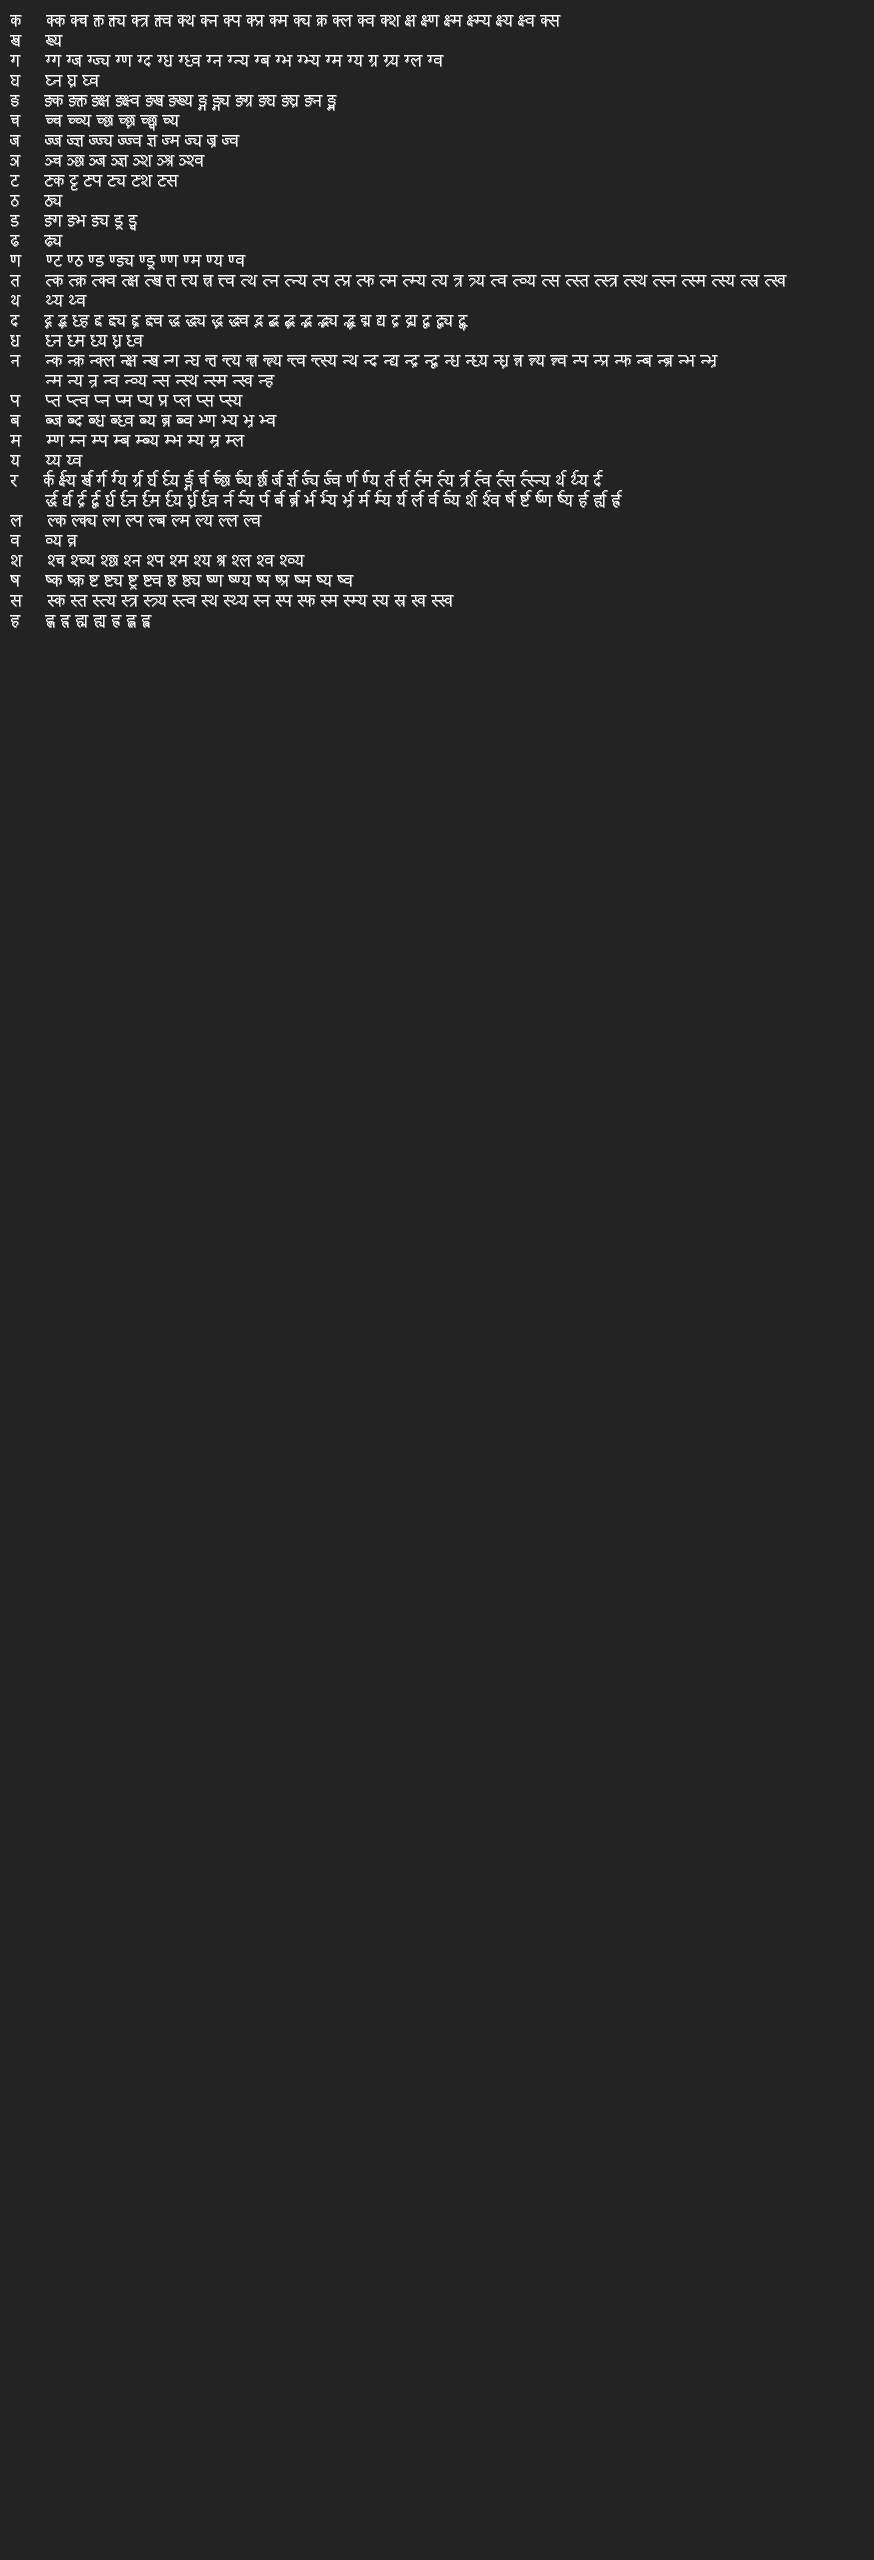
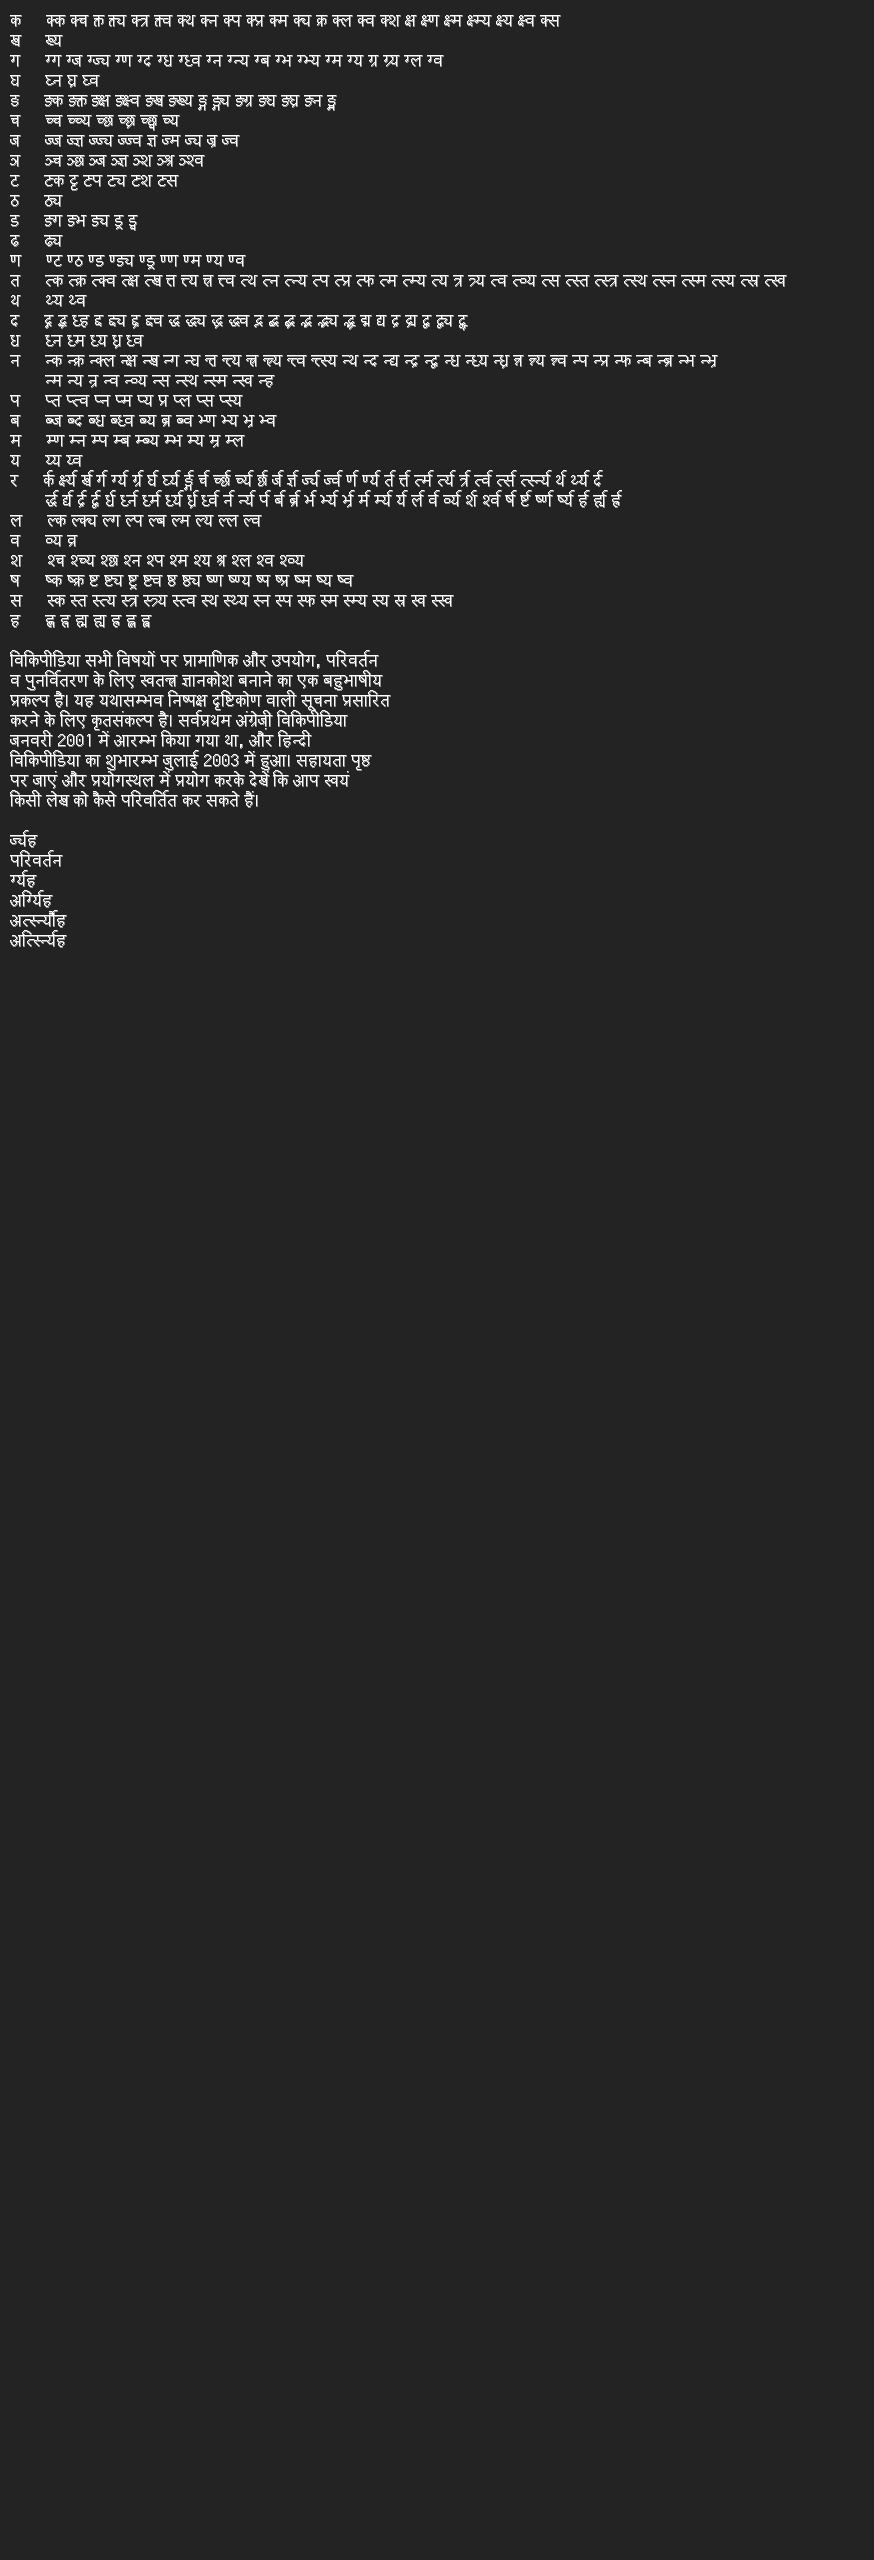
fixed a bad RAsup positioning (hopefully)

Changed region(s): [[0.0, 0.25, 0.4325, 0.375]]

diff --git a/src/net/torvald/terrarumsansbitmap/gdx/TerrarumSansBitmap.kt b/src/net/torvald/terrarumsansbitmap/gdx/TerrarumSansBitmap.kt
@@ -30,6 +30,7 @@ import com.badlogic.gdx.graphics.Pixmap
 import com.badlogic.gdx.graphics.Texture
 import com.badlogic.gdx.graphics.g2d.*
 import com.badlogic.gdx.utils.GdxRuntimeException
+import com.ibm.icu.impl.Normalizer2Impl.Hangul.isHangul
 import net.torvald.terrarumsansbitmap.DiacriticsAnchor
 import net.torvald.terrarumsansbitmap.GlyphProps
 import net.torvald.terrarumsansbitmap.gdx.TerrarumSansBitmap.Companion.charInfo
@@ -1312,7 +1313,7 @@ class TerrarumSansBitmap(
 
         // reposition devanagari RA-initials into RAsup
         i = 0
-//        dbgprn("seq3 = ${seq3.map { "${it.toCh()}${ZWNJ.toChar()}" }.joinToString(" ")}")
+        dbgprnLig("seq3 = ${seq3.map { "${it.toCh()}${ZWNJ.toChar()}" }.joinToString(" ")}")
 
         val yankedCharacters  = Stack<Pair<Int, CodePoint>>() // Stack of <Position, CodePoint>; codepoint use -1 if not applicable
         var yankedDevanagariRaStatus = intArrayOf(0,0) // 0: none, 1: consonants, 2: virama, 3: vowel for this syllable
@@ -1340,44 +1341,54 @@ class TerrarumSansBitmap(
             val c = seq3[i]
             val cNext = seq3.getOrElse(i+1) { -1 }
             val cNext2 = seq3.getOrElse(i+2) { -1 }
-//            val cNext3 = seq3.getOrElse(i+3) { -1 }
 
-//            dbgprn("  र${yankedDevanagariRaStatus[1]} Chars: ${cPrev2.toCh()}${ZWNJ.toChar()} ${cPrev.toCh()}${ZWNJ.toChar()} [ ${c.toCh()}${ZWNJ.toChar()} ] ${cNext.toCh()}${ZWNJ.toChar()} ${cNext2.toCh()}${ZWNJ.toChar()}")
+            dbgprnLig("  र${yankedDevanagariRaStatus[1]} Chars: ${cPrev2.toCh()}${ZWNJ.toChar()} ${cPrev.toCh()}${ZWNJ.toChar()} [ ${c.toCh()}${ZWNJ.toChar()} ] ${cNext.toCh()}${ZWNJ.toChar()} ${cNext2.toCh()}${ZWNJ.toChar()}")
 
 
             // in Regex: RA vir VL* (C vir C (vir C)*)? VR* ᴿ [not V && not vir]
+            // TERMINATOR: right vowel | non-half consonant before any consonants
             if (yankedDevanagariRaStatus[1] == 0 && c == DEVANAGARI_RA && cNext == DEVANAGARI_VIRAMA) {
-//                dbgprn("   Yanking RA (0 -> 1)")
+                dbgprnLig("   Yanking RA (0 -> 1)")
                 yankedCharacters.push(i to c)
                 changeRaStatus(1)
             }
             else if (yankedDevanagariRaStatus[1] == 1 && yankedDevanagariRaStatus[0] == 0 && c == DEVANAGARI_VIRAMA) {
-//                dbgprn("   First Virama (1 -> 2)")
+                dbgprnLig("   First Virama (1 -> 2)")
                 changeRaStatus(2)
             }
             else if (yankedDevanagariRaStatus[1] == 2 && devanagariConsonants.contains(c)) {
-//                dbgprn("   Consonants after Virama (2 -> 1)")
+                dbgprnLig("   Consonants after Virama (2 -> 1)")
                 seq4.add(c)
                 changeRaStatus(1)
             }
-            else if (yankedDevanagariRaStatus[1] == 3 && devanagariConsonants.contains(c)) {
-//                dbgprn("   Consonants after Left Vowel (3 -> 1)")
+            else if (yankedDevanagariRaStatus[1] in listOf(1,3) && devanariConsonantsHalfs.contains(c)) {
+                dbgprnLig("   Consonants Half Form (${yankedDevanagariRaStatus[1]} -> 3)")
+                seq4.add(c)
+                changeRaStatus(3)
+            }
+            else if (yankedDevanagariRaStatus[1] == 5 && devanagariConsonants.contains(c)) {
+                dbgprnLig("   Consonants after Left Vowel (5 -> 1)")
                 seq4.add(c)
                 changeRaStatus(1)
             }
             else if ((yankedDevanagariRaStatus[1] > 0) && devanagariRightVowels.contains(c)) {
-//                dbgprn("   Right Vowels (${yankedDevanagariRaStatus[1]} -> 4)")
+                dbgprnLig("   Right Vowels (${yankedDevanagariRaStatus[1]} -> 4)")
                 seq4.add(c)
                 changeRaStatus(4)
             }
             else if ((yankedDevanagariRaStatus[1] in 1..3) && devanagariVowels.contains(c)) {
-//                dbgprn("   Left Vowels (${yankedDevanagariRaStatus[1]} -> 3)")
+                dbgprnLig("   Left Vowels (${yankedDevanagariRaStatus[1]} -> 5)")
                 seq4.add(c)
-                changeRaStatus(3)
+                changeRaStatus(5)
+            }
+            else if (yankedDevanagariRaStatus[1] > 0 && devanariConsonantsHalfs.contains(cPrev) && devanagariConsonants.contains(c)) {
+                dbgprnLig("   Consonant Tail after Halfs (${yankedDevanagariRaStatus[1]} -> 9)")
+                seq4.add(c)
+                changeRaStatus(9)
             }
             // -- termination or illegal state for Devanagari RA
             else if (yankedDevanagariRaStatus[1] > 0) {
-//                dbgprn("   Popping out RAsup")
+                dbgprnLig("   Popping out RAsup")
                 yankedCharacters.pop()
                 seq4.add(DEVANAGARI_RA_SUPER)
                 resetRaStatus()
@@ -1399,7 +1410,9 @@ class TerrarumSansBitmap(
         return seq4
     }
 
-    private fun CodePoint.toCh() = if (this in 0xF0100..0xF02FF) this.puaToUni() else if (this < 65536) "${this.toChar()}" else this.toHex()
+    private fun dbgprnLig(i: Any) { if (false) println("[${this.javaClass.simpleName}] $i") }
+
+    private fun CodePoint.toCh() = if (this >= 0xF0000) this.puaToUni() else if (this < 65536) "${this.toChar()}" else this.toHex()
 
     // nuke this function when the time that compiled bytecode exceeds 64 kb finally arrives
     private fun CodePoint.puaToUni() = when (this) {
@@ -1411,6 +1424,9 @@ class TerrarumSansBitmap(
         0xF0105 -> "हू"
         0xF010B -> "˓"
         in 0xF0140..0xF0164 -> "${(this - 0xf0140 + 0x915).toChar()}"
+        in 0xF0230..0xF0254 -> "${(this - 0xf0230 + 0x915).toChar()}${DEVANAGARI_VIRAMA.toChar()}${ZWJ.toChar()}"
+        in 0xF0320..0xF0344 -> "${(this - 0xf0320 + 0x915).toChar()}${DEVANAGARI_VIRAMA.toChar()}\u0930"
+        in 0xF0410..0xF0434 -> "${(this - 0xf0410 + 0x915).toChar()}${DEVANAGARI_VIRAMA.toChar()}\u0930${ZWJ.toChar()}"
         else -> this.toHex()
     }
 
@@ -2056,24 +2072,6 @@ class TerrarumSansBitmap(
         private val TAMIL_SHRII = 0xF00EE
         private val TAMIL_I = 0xBBF
 
-        private val devanagariConsonants = ((0x0915..0x0939) + (0x0958..0x095F) + (0x0978..0x097F) + (0xF0140..0xF04FF)).toHashSet()
-        private val devanagariVowels = ((0x093A..0x093C) + (0x093E..0x094C) + (0x094E..0x094F)).toHashSet()
-        private val devanagariRightVowels = ((0x093A..0x093C) + (0x093E) + (0x0940..0x094C) + 0x094F).toHashSet()
-
-        private val devanagariBaseConsonants = 0x0915..0x0939
-        private val devanagariBaseConsonantsWithNukta = 0x0958..0x095F
-        private val devanagariBaseConsonantsExtended = 0x0978..0x097F
-        private val devanagariPresentationConsonants = 0xF0140..0xF022F
-        private val devanagariPresentationConsonantsHalf = 0xF0230..0xF031F
-        private val devanagariPresentationConsonantsWithRa = 0xF0320..0xF040F
-        private val devanagariPresentationConsonantsWithRaHalf = 0xF0410..0xF04FF
-
-
-        private val devanagariConsonantsNonLig = (devanagariBaseConsonants +
-                devanagariBaseConsonantsWithNukta + devanagariBaseConsonantsExtended +
-                devanagariPresentationConsonants + devanagariPresentationConsonantsWithRa).toHashSet()
-
-        private val devanariConsonantsHalfs = ((0xF0105..0xF012F) + (0xF0137..0xF013F) + (0xF01C0..0xF01FF)).toHashSet()
 
         private val DEVANAGARI_VIRAMA = 0x94D
         private val DEVANAGARI_RA = 0x930.toDevaInternal()
@@ -2117,9 +2115,28 @@ class TerrarumSansBitmap(
         private val MARWARI_LIG_DD_R = 0xF0118
 
 
+        private val devanagariConsonants = ((0x0915..0x0939) + (0x0958..0x095F) + (0x0978..0x097F) +
+                (0xF0140..0xF04FF) + (0xF0106..0xF0109)).toHashSet()
+        private val devanagariVowels = ((0x093A..0x093C) + (0x093E..0x094C) + (0x094E..0x094F)).toHashSet()
+        private val devanagariRightVowels = ((0x093A..0x093C) + (0x093E) + (0x0940..0x094C) + 0x094F).toHashSet()
 
-        private val DEVANAGARI_HALF_FORMS = 0xF0230 // starting point for Devanagari half forms
-        private val DEVANAGARI_LIG_X_R = 0xF0410 // starting point for Devanagari ligature CONSONANT+RA
+        private val devanagariBaseConsonants = 0x0915..0x0939
+        private val devanagariBaseConsonantsWithNukta = 0x0958..0x095F
+        private val devanagariBaseConsonantsExtended = 0x0978..0x097F
+        private val devanagariPresentationConsonants = 0xF0140..0xF022F
+        private val devanagariPresentationConsonantsHalf = 0xF0230..0xF031F
+        private val devanagariPresentationConsonantsWithRa = 0xF0320..0xF040F
+        private val devanagariPresentationConsonantsWithRaHalf = 0xF0410..0xF04FF
+
+
+        private val devanagariConsonantsNonLig = (devanagariBaseConsonants +
+                devanagariBaseConsonantsWithNukta + devanagariBaseConsonantsExtended +
+                devanagariPresentationConsonants + devanagariPresentationConsonantsWithRa).toHashSet()
+
+        private val devanariConsonantsHalfs = (devanagariPresentationConsonantsHalf +
+                devanagariPresentationConsonantsWithRaHalf + listOf(DEVANAGARI_HALF_RYA, DEVANAGARI_OPEN_HALF_YA)).toHashSet()
+
+
 
         private fun Int.toDevaInternal(): Int {
             if (this in 0x0915..0x0939) return this - 0x0915 + 0xF0140
